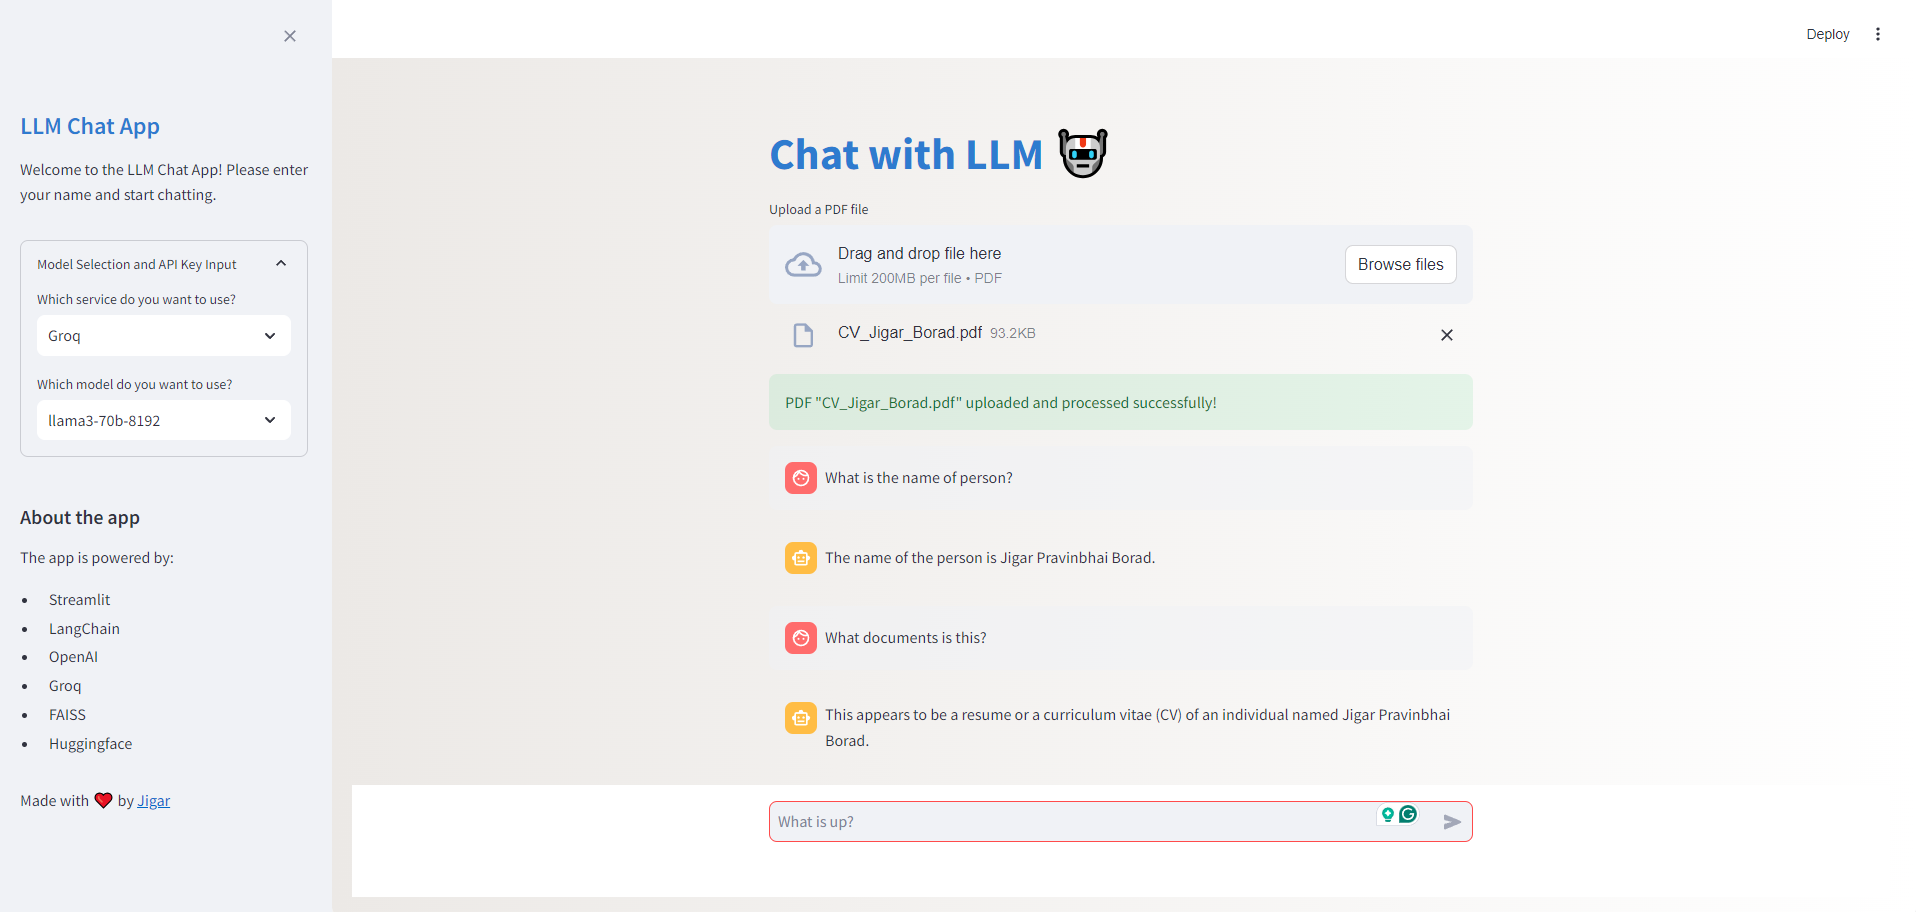
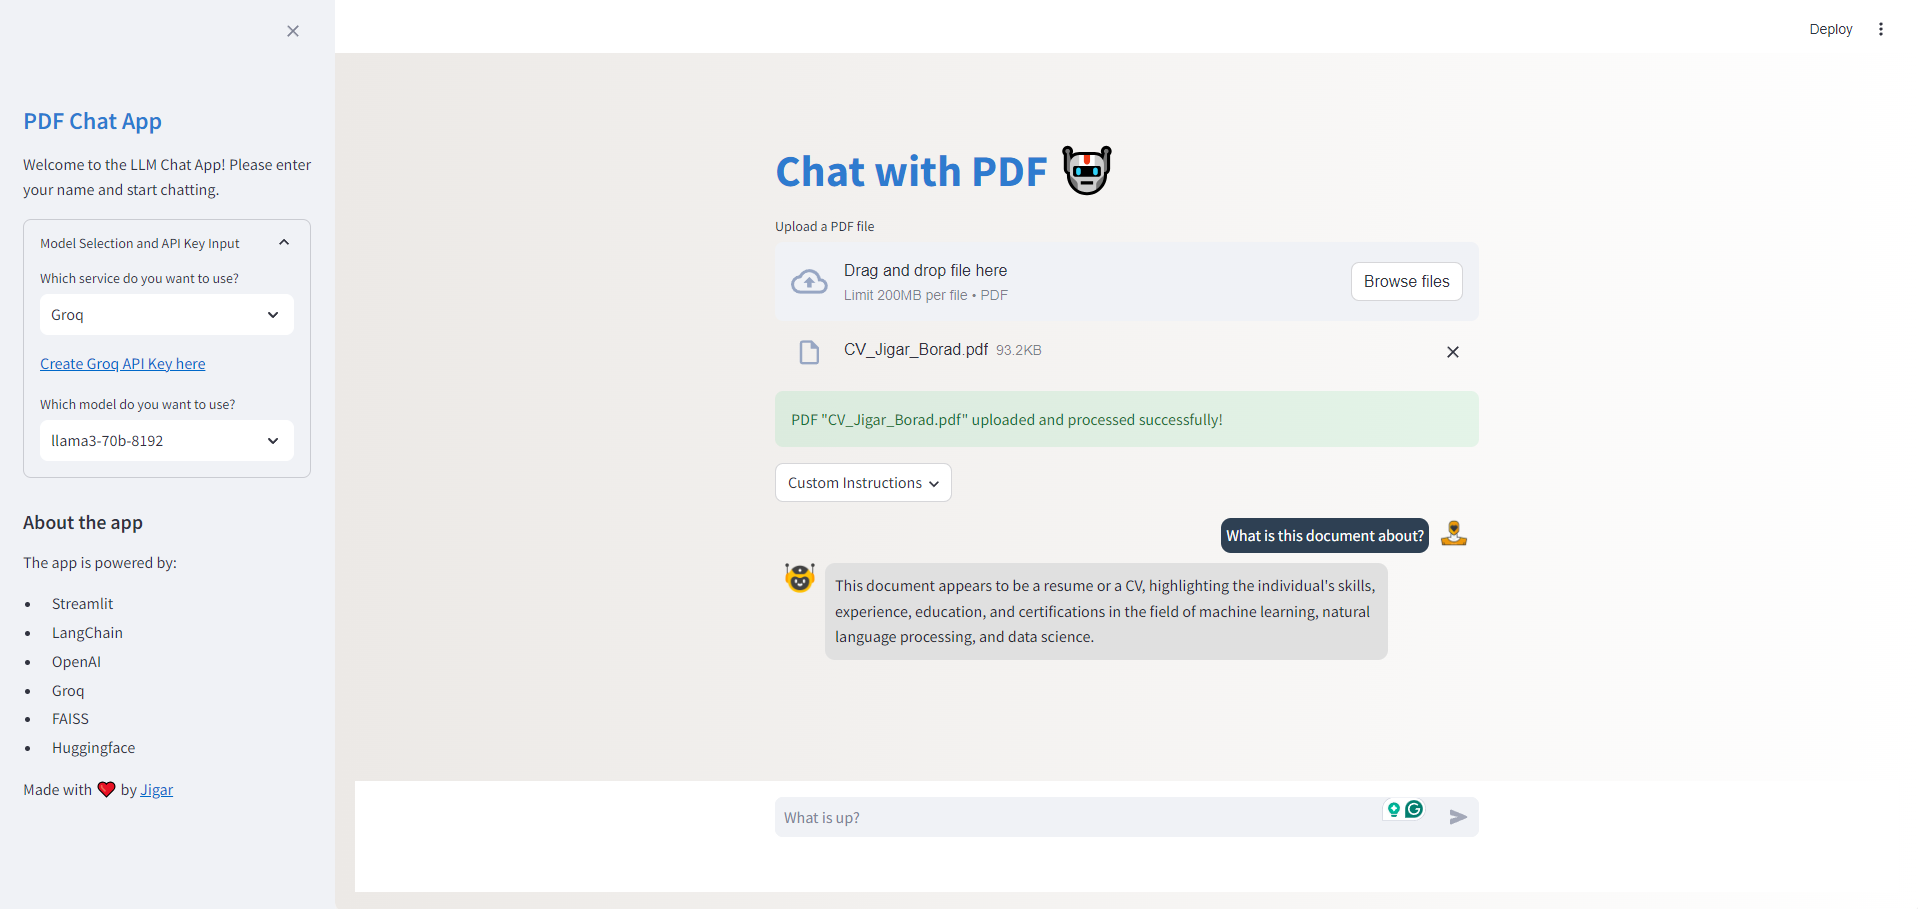
Updated readme / added option of custom prompt templates

diff --git a/chat.py b/chat.py
@@ -3,7 +3,7 @@ import openai
 from data_manager import DataManager
 from open_ai_models import OpenAIModel
 from groq_models import GroqModel
-from  utils import icon_loader
+from utils import icon_loader
 
 class ChatApp:
     def __init__(self, api_key, model_name):
@@ -26,18 +26,34 @@ class ChatApp:
 
     def run(self):
         vector_store_path, chunks, uploaded_file = DataManager.pdf_uploader()
+        # Initialize chat history
+        if "messages" not in st.session_state:
+            st.session_state.messages = []
         if uploaded_file is not None:
             self.vector_store_path = vector_store_path
             self.chunks = chunks
+            
             if not self.load_model():
                 return
-
             st.success(f'PDF "{uploaded_file.name}" uploaded and processed successfully!')
+            default_instructions = (
+                    "You are a PDF chat bot. Answer questions by reading the provided PDF documents with the context and source."
+                    "if you greets you, then answer it"
+                    "If a question is outside the scope of these documents, respond with 'This question is not related to the document."
+                    "Please ask questions related to the PDF.")
             
-            # Initialize chat history
-            if "messages" not in st.session_state:
-                st.session_state.messages = []
-
+            with st.popover("Custom Instructions"):
+                # User input for custom prompt template
+                custom_template = st.text_area("Enter your custom instructions", placeholder="default_instructions are\n\n" + default_instructions, height=100)
+                
+            # Check if current custom template is different from the stored one
+            if "custom_template" in st.session_state and st.session_state.custom_template != custom_template:
+                st.session_state.custom_template = custom_template
+                st.session_state.messages = []  # Clear chat history
+            
+            # If no custom template stored yet, store the current one
+            if "custom_template" not in st.session_state:
+                st.session_state.custom_template = custom_template or default_instructions
             # Display chat messages from history on app rerun
             for message in st.session_state.messages:
                 if message["role"] == "user":
@@ -71,7 +87,11 @@ class ChatApp:
 
                     # Query model including the conversation history
                     history = [{"role": "user", "content": msg["content"]} if msg["role"] == "user" else {"role": "assistant", "content": msg["content"]} for msg in st.session_state.messages]
-                    response = self.model.query_model(self.model_name, prompt, self.vector_store, history)
+                    template = (st.session_state.custom_template or default_instructions) + "\n\n"+"{history}\n\nuser: {query}"
+                    
+
+                    with st.spinner("Thinking... ... ..."):
+                        response = self.model.query_model(self.model_name, prompt, self.vector_store, history, template)
 
                     # Add assistant's response to chat history
                     st.session_state.messages.append({"role": "assistant", "content": response})

diff --git a/open_ai_models.py b/open_ai_models.py
@@ -3,6 +3,7 @@ from langchain_openai import OpenAIEmbeddings, ChatOpenAI
 from langchain_community.vectorstores import FAISS
 from langchain.chains.question_answering import load_qa_chain
 from langchain_community.callbacks import get_openai_callback
+from langchain.prompts import PromptTemplate
 
 class OpenAIModel:
     def __init__(self, api_key):
@@ -22,14 +23,14 @@ class OpenAIModel:
             VectorStore.save_local(vector_store_full_path)
         return VectorStore
 
-    def query_model(self, model_name, query, VectorStore, history):
+    def query_model(self, model_name, query, VectorStore, history, template):
         if model_name not in self.available_models:
             raise ValueError("Model not available")
         docs = VectorStore.similarity_search(query=query, k=2)
         chain = load_qa_chain(llm=ChatOpenAI(model_name=model_name, openai_api_key=self.api_key), chain_type="stuff")
         
-        # Combine history and current query for the model input
-        input_text = "\n".join([f"{h['role']}: {h['content']}" for h in history]) + f"\nuser: {query}"
+        prompt = PromptTemplate(template=template, input_variables=["history", "query"])
+        input_text = prompt.format(history="\n".join([f"{h['role']}: {h['content']}" for h in history]), query=query)
         
         with get_openai_callback() as cb:
             response = chain.invoke(input={"input_documents": docs, "question": input_text})["output_text"]

diff --git a/groq_models.py b/groq_models.py
@@ -3,6 +3,7 @@ from langchain_community.vectorstores import FAISS
 from langchain.chains.question_answering import load_qa_chain
 from langchain_groq import ChatGroq
 from langchain_huggingface import HuggingFaceEmbeddings
+from langchain.prompts import PromptTemplate
 
 class GroqModel:
     def __init__(self, api_key):
@@ -22,14 +23,13 @@ class GroqModel:
             VectorStore.save_local(vector_store_full_path)
         return VectorStore
 
-    def query_model(self, model_name, query, VectorStore, history):
+    def query_model(self, model_name, query, VectorStore, history, template):
         if model_name not in self.available_models:
             raise ValueError("Model not available")
         docs = VectorStore.similarity_search(query=query, k=3)
         chain = load_qa_chain(llm=ChatGroq(model_name=model_name, api_key=self.api_key), chain_type="stuff")
-        
-        # Combine history and current query for the model input
-        input_text = "\n".join([f"{h['role']}: {h['content']}" for h in history]) + f"\nuser: {query}"
+        prompt = PromptTemplate(template=template, input_variables=["history", "query"])
+        input_text = prompt.format(history="\n".join([f"{h['role']}: {h['content']}" for h in history]), query=query)
         
         response = chain.invoke(input={"input_documents": docs, "question": input_text})["output_text"]
         return response

diff --git a/utils.py b/utils.py
@@ -44,7 +44,7 @@ def get_groq_key():
         ).strip()
 
     if api_key_input:
-        if len(api_key_input) > 0:  # Add your Groq API key validation logic here
+        if api_key_input.startswith("gsk_"):  # Add your Groq API key validation logic here
             st.session_state.groq_api_key = api_key_input
             st.session_state.api_key_invalid = False
         else:

diff --git a/app.py b/app.py
@@ -4,7 +4,7 @@ from chat import ChatApp
 
 def main():
     # Set page config
-    st.set_page_config(page_title="LLM Chat App", page_icon=":robot_face:", layout="centered")
+    st.set_page_config(page_title="PDF Chat App", page_icon=":robot_face:", layout="centered")
 
     # Custom CSS for complete redesign
     st.markdown(styles.custom_css, unsafe_allow_html=True)

diff --git a/css/sidebar.py b/css/sidebar.py
@@ -6,7 +6,7 @@ from groq_models import GroqModel
 
 def render_sidebar():
     with st.sidebar:
-        st.title("LLM Chat App")
+        st.title("PDF Chat App")
         st.markdown('''Welcome to the LLM Chat App! Please enter your name and start chatting.''')
         # Model selection
         with st.expander("Model Selection and API Key Input", expanded=True):

diff --git a/css/styles.py b/css/styles.py
@@ -98,4 +98,4 @@ upload_banner = """
     </div>
 """
 
-header = """<h1 class="fade-in">Chat with LLM &#x1F916;</h1>"""
+header = """<h1 class="fade-in">Chat with PDF &#x1F916;</h1>"""

diff --git a/ReadMe.md b/ReadMe.md
@@ -15,6 +15,7 @@ Welcome to the LLM Chat App, a powerful and interactive web application that all
 - **Custom CSS:** Enjoy a modern and visually appealing interface with a custom-designed CSS.
 - **Support for Multiple Models:** Choose between OpenAI and Groq models based on your preference and API key.
 - **Groq Models:** Currently free to use.
+- **Custom Instructions:** One give customs instruction(prompts) if not satisfied with default.
 - **Embeddings:** Use HuggingFace embeddings for Groq models and OpenAI embeddings for OpenAI models.
 
 ## Technologies Used
@@ -51,7 +52,11 @@ Welcome to the LLM Chat App, a powerful and interactive web application that all
    - Click on "Upload a PDF file" and select a PDF from your local machine.
    - The app will extract and process the text from the PDF.
 
-4. **Ask Questions:**
+4. **Give custom instructions(Optional)**
+   - Click on the Custom instruction
+   - If custom instruction hasa been give Chatbot will follow that otherwise default instruction will be followed.
+
+5. **Ask Questions:**
    - Enter your question in the text input field.
    - The app will perform a similarity search on the PDF content and provide an answer based on the relevant text.
 
@@ -66,7 +71,6 @@ Welcome to the LLM Chat App, a powerful and interactive web application that all
 ![Chat Interface](images/chat_interface.png)
 
 
-Certainly! Here's how you can incorporate a sarcastic emoji:
 
 ---
 
